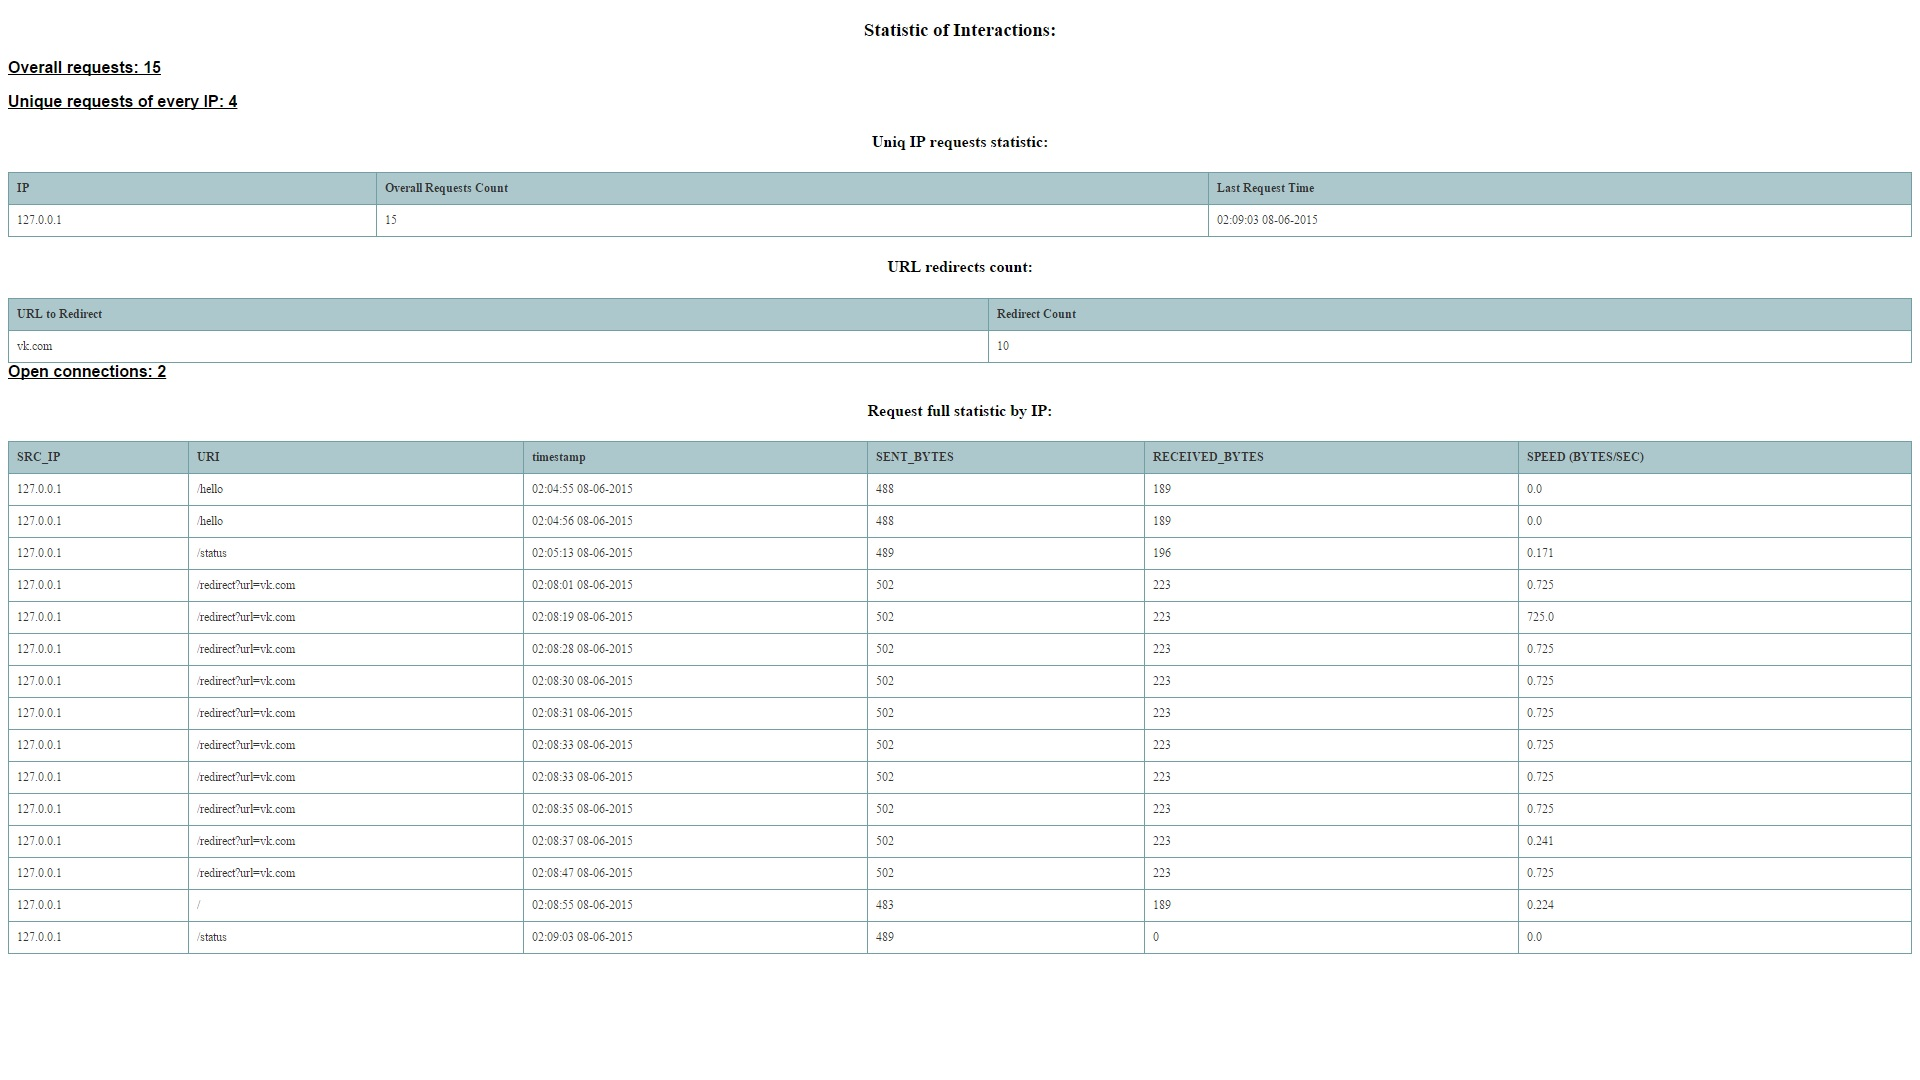
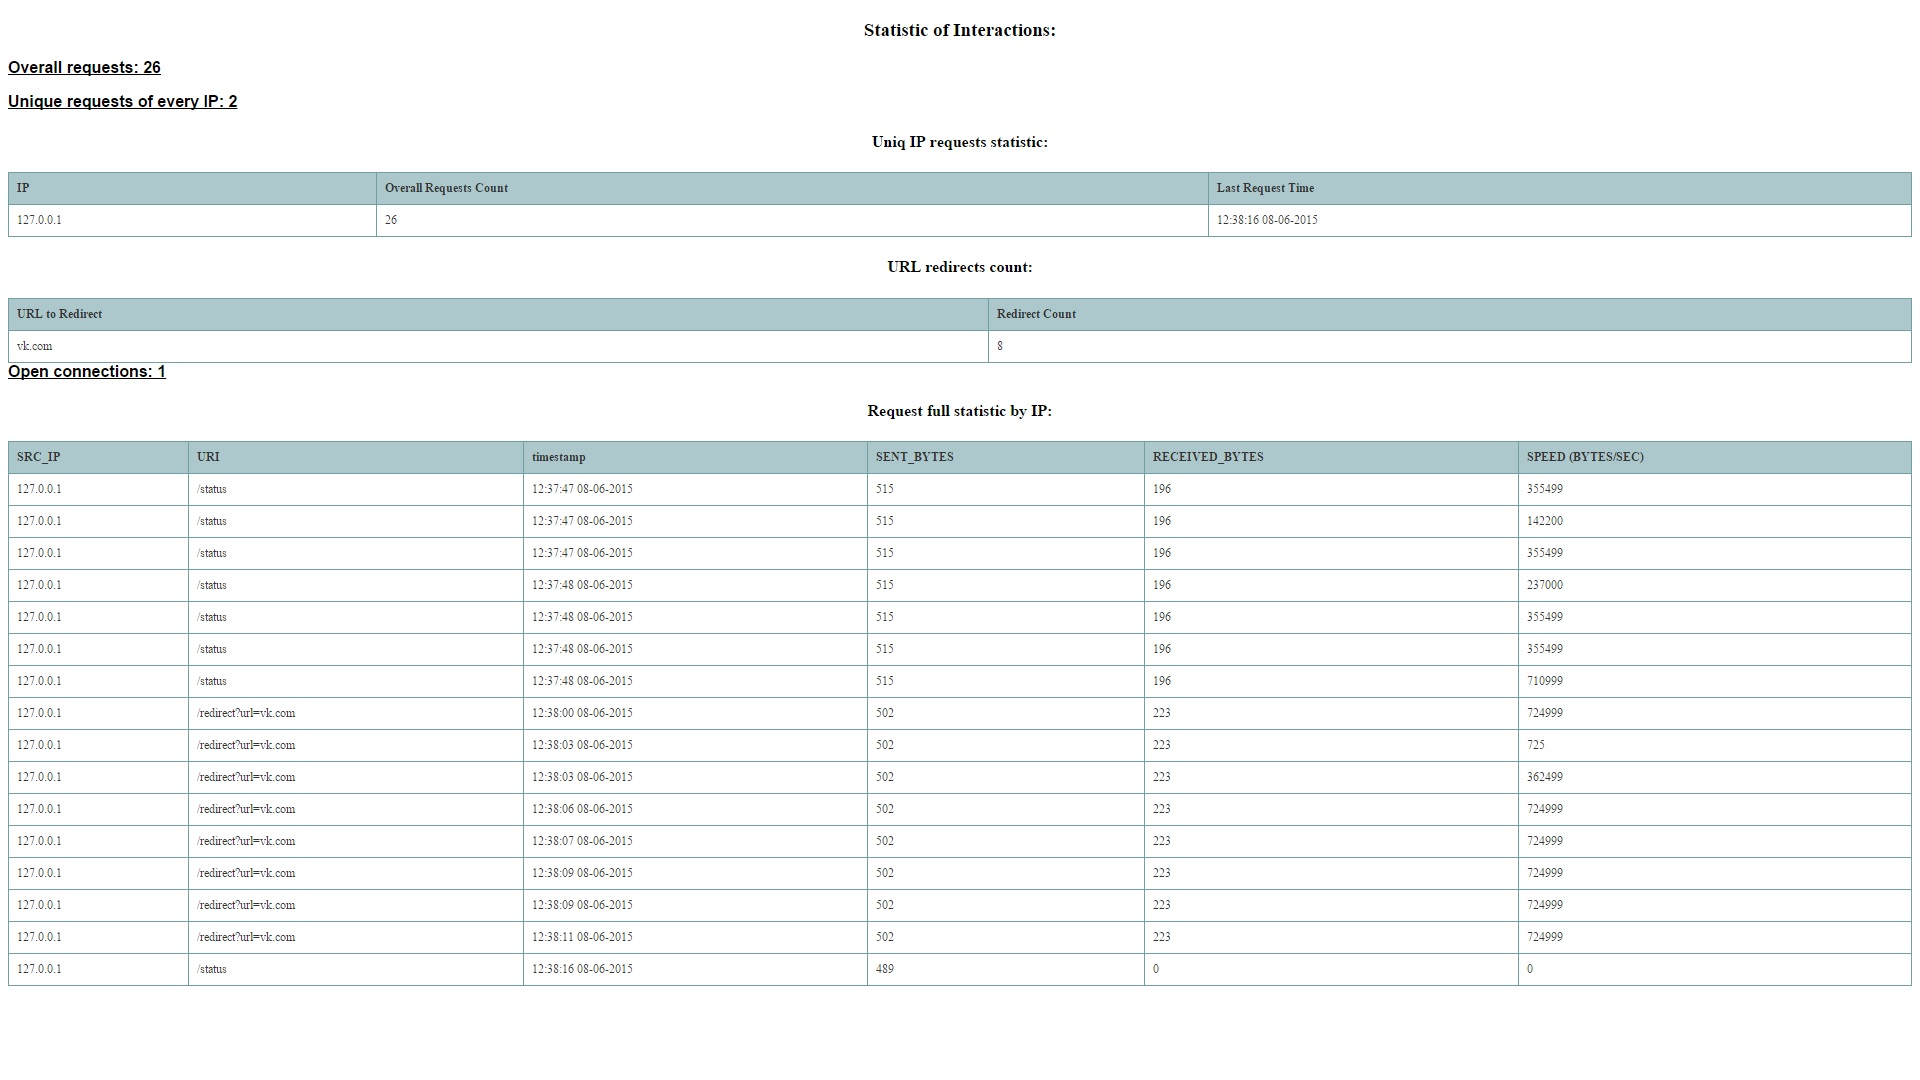
git remote add origin https://github.com/Demonian/NettyServerTest.git git push -u origin master

diff --git a/src/main/java/my/netty/test/MyHTTPRequest.java b/src/main/java/my/netty/test/MyHTTPRequest.java
@@ -93,9 +93,15 @@ public class MyHTTPRequest {
         return type;
     }
 
+    private float getSecfromReqTime(long reqTime) {
+        return reqTime / 1000F;
+    }
 
-    public float getBytePerSec() {
-        return (this.reqTime > 0)?(((this.sentBytes + this.recBytes) / this.reqTime) / 1000F):(this.sentBytes + this.recBytes);
+
+    public long getBytePerSec() {
+        return (getSecfromReqTime(this.reqTime) > 0)
+                ?((long)((this.sentBytes + this.recBytes) / getSecfromReqTime(this.reqTime)))
+                :(this.sentBytes + this.recBytes);
     }
 
 //    Formatting data for better visual

diff --git a/src/main/java/my/netty/test/codec/HTTPNettyServerHandler.java b/src/main/java/my/netty/test/codec/HTTPNettyServerHandler.java
@@ -139,8 +139,6 @@ public class HTTPNettyServerHandler extends ChannelInboundHandlerAdapter{
             e.printStackTrace();
         }
         request.setReqTime((new Date().getTime() - request.getReqTime()));
-        System.out.println(request.getReqTime());
-        System.out.println(request.getBytePerSec());
         ctx.write(response).addListener(ChannelFutureListener.CLOSE);
     }
 
